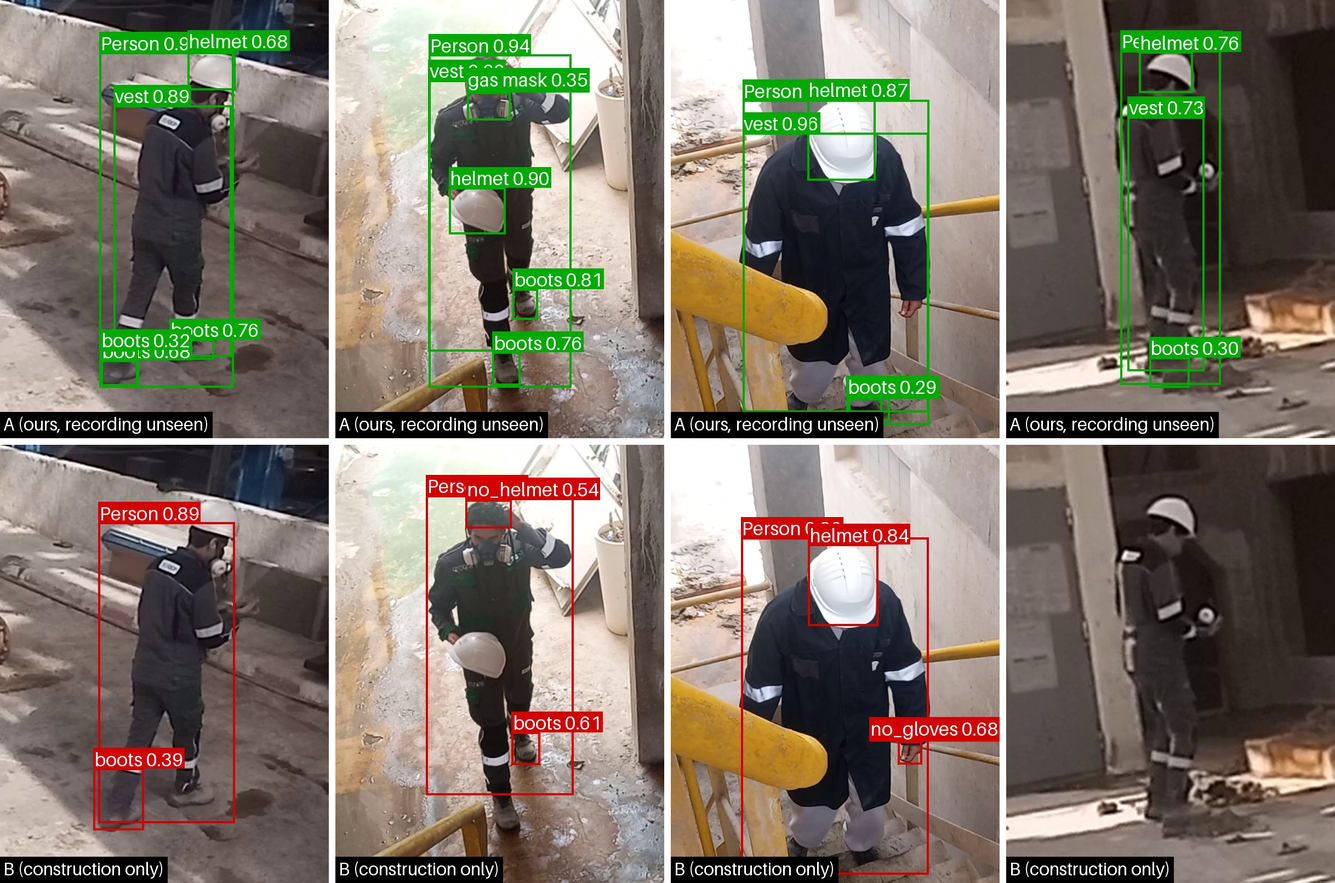
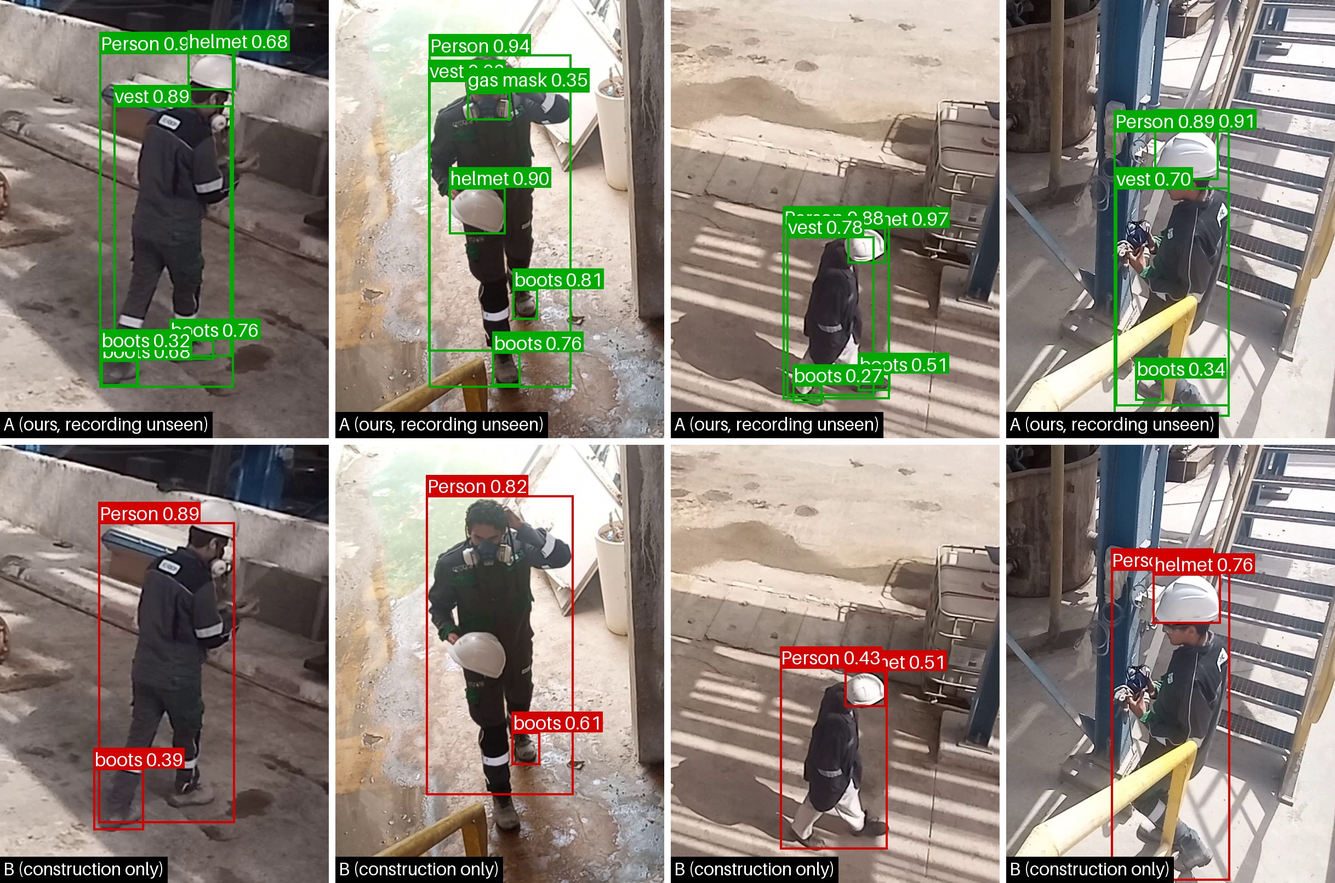
paper: object-size box plot (Fig. 5), new examples (c) and (d), code link
Box plot drawn from log10 sizes on a linear axis (pgfplots box plots fail
on ymode=log). Examples hide absence classes, which plant frames do not
label.

Claude-Session: https://claude.ai/code/session_01Pbq3iATR8kHivEnHciqBgf

diff --git a/paper/sections/04-results.tex b/paper/sections/04-results.tex
@@ -89,7 +89,7 @@ gas mask & 59  & n/a  & 1.4  & 23.4 & 33.3 & 18.6 \\
 \centering
 \includegraphics[width=0.8\linewidth]{figures/ocp_examples.jpg}\\[-1pt]
 \makebox[0.8\linewidth]{\scriptsize\makebox[0.2\linewidth]{(a)}\hfill\makebox[0.2\linewidth]{(b)}\hfill\makebox[0.2\linewidth]{(c)}\hfill\makebox[0.2\linewidth]{(d)}}
-\caption{Four held-out plant frames from different recordings, chosen among those where A finds the most objects that B misses, so they illustrate rather than measure. Top: A's fold model, which never saw the recording (green). Bottom: B, seed 0 (red). Confidence $\geq$\,0.25, cropped around the worker. (a) B misses a worn helmet and the work jacket. (b) The worker carries the helmet and wears a gas mask. B's no\_helmet call is correct but cannot be scored, since plant frames have no absence labels, and A detects the carried helmet as an item, which does not establish compliance. (c) For a second worker in a dark blue coat, B finds the helmet but not the coat, which A detects as a vest. (d) In the shade B detects nothing, while A finds the worker, helmet and jacket.}
+\caption{Four held-out plant frames from different recordings, chosen among those where A finds the most objects that B misses, so they illustrate rather than measure. Top: A's fold model, which never saw the recording (green). Bottom: B, seed 0 (red). Confidence $\geq$\,0.25; absence classes are not drawn, since plant frames have no absence labels. (a) B misses a worn helmet and the work jacket. (b) The worker carries the helmet and wears a gas mask; A detects the carried helmet as an item, which does not establish compliance. (c) A second worker in a dark blue coat, seen from a distance and from above: A finds him, his helmet, coat and boots; B finds him and the helmet. (d) Near a stairway, B finds the worker and helmet; A also finds the jacket and boots.}
 \label{fig:examples}
 \end{figure}
 
@@ -109,4 +109,11 @@ gas mask & 59  & n/a  & 1.4  & 23.4 & 33.3 & 18.6 \\
 \label{fig:pr}
 \end{figure}
 
-\textbf{Error analysis (Fig.~\ref{fig:pr}b).} Most of A's errors are missed objects. Of 1{,}007 plant objects, 76.4\% are found, 21.6\% are missed and 2.0\% get the wrong class, mainly boots read as helmets (8 cases). A finds 95.7\% of vests, 81.7\% of helmets and 76.2\% of boots, but only 18.6\% of gas masks and no gloves or goggles. These three are the smallest objects. In the 640-pixel model input, the median plant goggle is 11 pixels across (57 in SH17 training images), a gas mask 23 (170 in the gas-mask dataset, mostly face close-ups) and a glove 12 (29 to 36). A sees most gas masks but with low confidence: 41 of 59 have a matching box at some confidence, and 11 above 0.25. Its goggle boxes are poorly placed, and gloves are not detected at all. Our compute budget (14 runs on one T4 GPU) kept the input at 640 pixels. A 1280-pixel input would double the size of these objects, at about four times the computation. Over the 207 frames, 153 detections match no object, most of them boots (60). Plant frames have no absence labels, so we cannot assess the absence classes here.
+\textbf{Error analysis (Fig.~\ref{fig:pr}b).} Most of A's errors are missed objects. Of 1{,}007 plant objects, 76.4\% are found, 21.6\% are missed and 2.0\% get the wrong class, mainly boots read as helmets (8 cases). A finds 95.7\% of vests, 81.7\% of helmets and 76.2\% of boots, but only 18.6\% of gas masks and no gloves or goggles. These three are the smallest objects (Fig.~\ref{fig:sizes}). In the 640-pixel model input, the median plant goggle is 11 pixels across (57 in public training images), a gas mask 23 (170, mostly face close-ups) and a glove 12 (34). Plant helmets and boots are also small (23 and 18 pixels), but A has many plant examples of them. A sees most gas masks but with low confidence: 41 of 59 have a matching box at some confidence, and 11 above 0.25. Its goggle boxes are poorly placed, and gloves are not detected at all. Our compute budget (14 runs on one T4 GPU) kept the input at 640 pixels. A 1280-pixel input would double the size of these objects, at about four times the computation. Over the 207 frames, 153 detections match no object, most of them boots (60). Plant frames have no absence labels, so we cannot assess the absence classes here.
+
+\begin{figure}[H]
+\centering
+\input{figures/object_sizes.tex}
+\caption{Object size as the model sees it (square root of box area, pixels in the 640-pixel input), plant frames vs.\ public training images, log scale. Box: quartiles; line: median; whiskers: 5th and 95th percentiles.}
+\label{fig:sizes}
+\end{figure}

diff --git a/paper/figures/object_sizes.tex b/paper/figures/object_sizes.tex
@@ -1,0 +1,23 @@
+% generated by ppe.collect, do not edit by hand
+\begin{tikzpicture}
+\begin{axis}[
+  width=\columnwidth, height=4.3cm, boxplot/draw direction=y, ymin=0.602, ymax=2.845,
+  ylabel={\footnotesize size in model input (px)},
+  ytick={0.699,1.000,1.301,1.699,2.000,2.301,2.699}, yticklabels={5,10,20,50,100,200,500},
+  xtick={1,...,5}, xticklabels={helmet,boots,gloves,goggles,gas mask}, xmin=0.5, xmax=5.5,
+  tick label style={font=\footnotesize}, ymajorgrids, major grid style={gray!25},
+  legend style={font=\tiny, draw=none, fill=none, at={(0.5,1.02)}, anchor=south, legend columns=2}]
+\addplot[fill=orange!70, draw=black!60, forget plot, boxplot prepared={draw position=0.82, lower whisker=1.083, lower quartile=1.274, median=1.365, upper quartile=1.534, upper whisker=1.742, box extend=0.3}] coordinates {};
+\addplot[fill=orange!70, draw=black!60, forget plot, boxplot prepared={draw position=1.82, lower whisker=0.929, lower quartile=1.143, median=1.258, upper quartile=1.342, upper whisker=1.467, box extend=0.3}] coordinates {};
+\addplot[fill=orange!70, draw=black!60, forget plot, boxplot prepared={draw position=2.82, lower whisker=0.908, lower quartile=1.045, median=1.086, upper quartile=1.225, upper whisker=1.320, box extend=0.3}] coordinates {};
+\addplot[fill=orange!70, draw=black!60, forget plot, boxplot prepared={draw position=3.82, lower whisker=0.914, lower quartile=0.949, median=1.037, upper quartile=1.121, upper whisker=1.330, box extend=0.3}] coordinates {};
+\addplot[fill=orange!70, draw=black!60, forget plot, boxplot prepared={draw position=4.82, lower whisker=0.982, lower quartile=1.182, median=1.354, upper quartile=1.474, upper whisker=1.711, box extend=0.3}] coordinates {};
+\addplot[fill=blue!25, draw=black!60, forget plot, boxplot prepared={draw position=1.18, lower whisker=0.778, lower quartile=1.283, median=1.481, upper quartile=1.682, upper whisker=1.959, box extend=0.3}] coordinates {};
+\addplot[fill=blue!25, draw=black!60, forget plot, boxplot prepared={draw position=2.18, lower whisker=0.964, lower quartile=1.396, median=1.616, upper quartile=1.816, upper whisker=2.115, box extend=0.3}] coordinates {};
+\addplot[fill=blue!25, draw=black!60, forget plot, boxplot prepared={draw position=3.18, lower whisker=0.799, lower quartile=1.265, median=1.525, upper quartile=1.785, upper whisker=2.150, box extend=0.3}] coordinates {};
+\addplot[fill=blue!25, draw=black!60, forget plot, boxplot prepared={draw position=4.18, lower whisker=1.068, lower quartile=1.538, median=1.753, upper quartile=1.912, upper whisker=2.101, box extend=0.3}] coordinates {};
+\addplot[fill=blue!25, draw=black!60, forget plot, boxplot prepared={draw position=5.18, lower whisker=1.754, lower quartile=2.012, median=2.231, upper quartile=2.417, upper whisker=2.666, box extend=0.3}] coordinates {};
+\addlegendimage{area legend, fill=orange!70, draw=black!60}\addlegendentry{plant frames}
+\addlegendimage{area legend, fill=blue!25, draw=black!60}\addlegendentry{public training images}
+\end{axis}
+\end{tikzpicture}

diff --git a/training/src/ppe/collect.py b/training/src/ppe/collect.py
@@ -324,23 +324,32 @@ def object_sizes(cfg: Config, pool_dir: Path) -> dict:
 
 def sizes_tex(sizes: dict) -> str:
     """pgfplots box plot (\\input by the paper) of object_sizes(): box =
-    quartiles, line = median, whiskers = 5th and 95th percentiles, log axis."""
+    quartiles, line = median, whiskers = 5th and 95th percentiles. Sizes are
+    drawn as log10 on a linear axis (pgfplots box plots fail on ymode=log),
+    with ticks labelled in pixels."""
+    import math
+
     plots = []
     for group, (fill, dx, _) in SIZE_STYLE.items():
         for i, c in enumerate(SIZE_CLASSES, 1):
             s = sizes.get(group, {}).get(c, {})
             if not s.get("n"):
                 continue
+            lg = {k: math.log10(max(s[k], 1.0)) for k in ("p5", "q1", "median", "q3", "p95")}
             plots.append(
                 f"\\addplot[fill={fill}, draw=black!60, forget plot, boxplot prepared={{"
-                f"draw position={i + dx:.2f}, lower whisker={s['p5']:.1f}, lower quartile={s['q1']:.1f}, "
-                f"median={s['median']:.1f}, upper quartile={s['q3']:.1f}, upper whisker={s['p95']:.1f}, "
+                f"draw position={i + dx:.2f}, lower whisker={lg['p5']:.3f}, lower quartile={lg['q1']:.3f}, "
+                f"median={lg['median']:.3f}, upper quartile={lg['q3']:.3f}, upper whisker={lg['p95']:.3f}, "
                 f"box extend=0.3}}] coordinates {{}};")
+    ticks = [5, 10, 20, 50, 100, 200, 500]
     legend = [f"\\addlegendimage{{area legend, fill={fill}, draw=black!60}}\\addlegendentry{{{name}}}"
               for fill, _, name in SIZE_STYLE.values()]
-    return ("% generated by ppe.collect — do not edit by hand\n\\begin{tikzpicture}\n\\begin{axis}[\n"
-            "  width=\\columnwidth, height=4.3cm, ymode=log, ymin=3, ymax=800,\n"
+    return ("% generated by ppe.collect, do not edit by hand\n\\begin{tikzpicture}\n\\begin{axis}[\n"
+            f"  width=\\columnwidth, height=4.3cm, boxplot/draw direction=y, "
+            f"ymin={math.log10(4):.3f}, ymax={math.log10(700):.3f},\n"
             "  ylabel={\\footnotesize size in model input (px)},\n"
+            f"  ytick={{{','.join(f'{math.log10(v):.3f}' for v in ticks)}}}, "
+            f"yticklabels={{{','.join(map(str, ticks))}}},\n"
             f"  xtick={{1,...,{len(SIZE_CLASSES)}}}, xticklabels={{{','.join(SIZE_CLASSES)}}}, "
             f"xmin=0.5, xmax={len(SIZE_CLASSES) + 0.5},\n"
             "  tick label style={font=\\footnotesize}, ymajorgrids, major grid style={gray!25},\n"

diff --git a/paper/sections/06-conclusion.tex b/paper/sections/06-conclusion.tex
@@ -3,4 +3,4 @@
 In a controlled comparison without data leakage at an operating phosphoric-acid unit, a construction-only YOLOv8n reaches 43.9\% mAP@50 on held-out plant recordings for the classes it knows. The same detector trained with plant frames reaches 72.5\%, at 11.7\,ms per frame on a T4 GPU. At equal training-set size, plant frames add 42.3 points (95\% CI [37.8, 47.2]), and more public data alone adds 2.9. When site PPE looks different from public imagery, about 165 annotated site frames help more than 1{,}500 public industrial images. Small items such as gloves and goggles still need closer views or a higher resolution. Future work includes plant recordings across days, areas and staff, with absence labels; frame-level video labels to measure false alarms per camera-hour and end-to-end throughput on site hardware; class-aware SH17 sampling and oversampling of rare classes; a 1280-pixel input, or tiled inference on the full $1920\times1080$ frames, for goggles, gloves and gas masks, which appear 3 to 7 times smaller at the plant than in public images; and YOLOv8s, compared with a rule that infers absence from person and equipment detections.
 
 \section*{Ethics and Data Availability}
-The authors recorded the plant footage in the Maroc Chimie phosphoric-acid unit with verbal clearance from OCP representatives for research and educational use. The only people in view are the authors, who consent to the publication of the frames shown. The public datasets are available from the cited sources. The OCP imagery is proprietary and cannot be released. \todo{code availability: repository link, or "available on request".}
+The authors recorded the plant footage in the Maroc Chimie phosphoric-acid unit with verbal clearance from OCP representatives for research and educational use. The only people in view are the authors, who consent to the publication of the frames shown. The public datasets are available from the cited sources. The OCP imagery is proprietary and cannot be released. The code is available at \url{https://github.com/YasserDalali/ppe-cv}.

diff --git a/paper/main.tex b/paper/main.tex
@@ -11,6 +11,7 @@
 \usetikzlibrary{arrows.meta,positioning,fit,calc,patterns}
 \usepackage{pgfplots}
 \pgfplotsset{compat=1.17}
+\usepgfplotslibrary{statistics}
 \usepackage[hidelinks]{hyperref}
 \renewcommand\UrlFont{\color{blue}\rmfamily}
 \urlstyle{rm}
